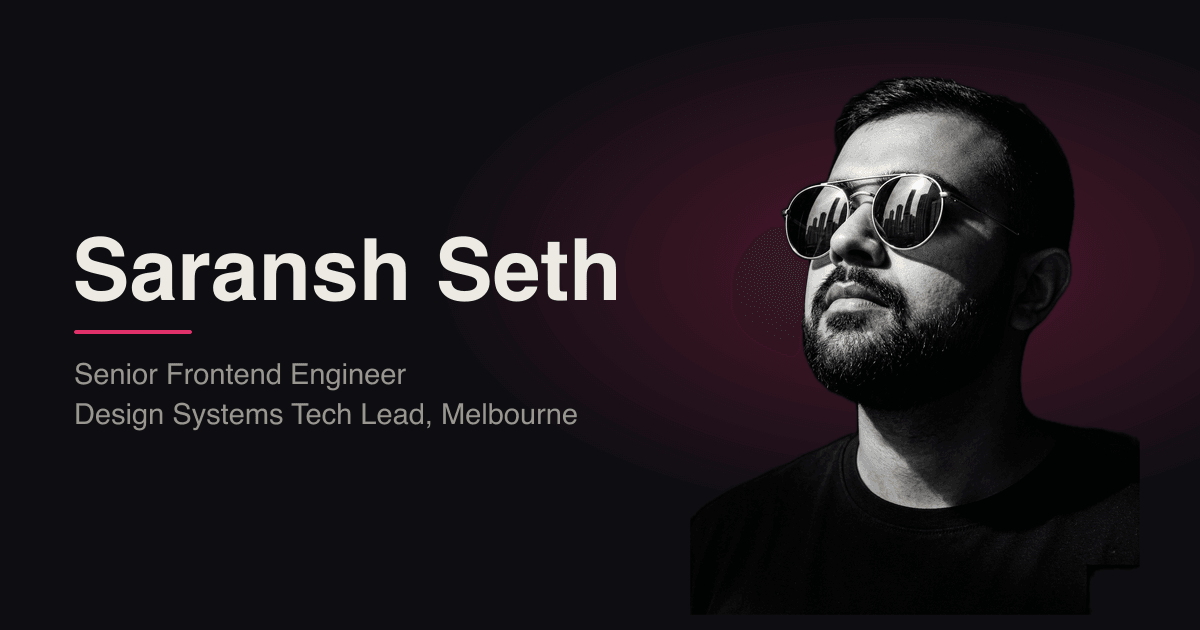
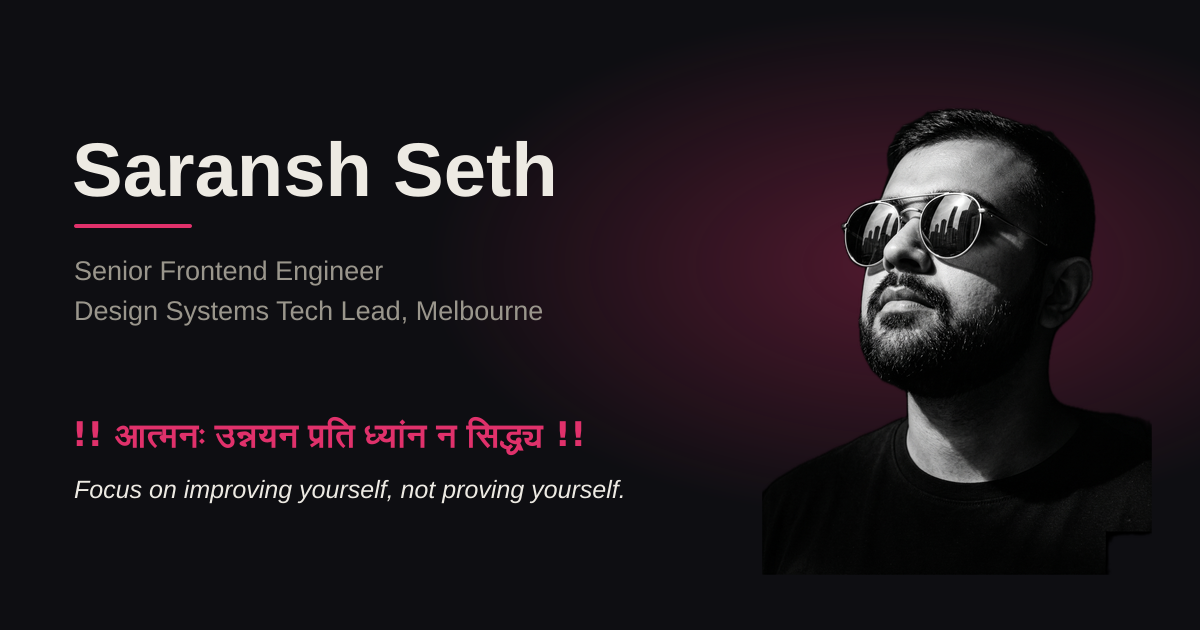
Add Sanskrit motto across the page, OG card, and metadata
Embed the personal motto as a quiet epigraph band between the hero and the
work, and carry it through the Open Graph card and structured data so it
belongs in every theme rather than sitting apart from it.

- New Motto section: Sanskrit main line, English meaning, Hindi echo, all
  coloured from the same theme tokens so the band recolours with each theme.
  Marked up with lang attributes and a scroll reveal that is skipped under
  reduced motion.
- Self-host Noto Serif Devanagari (SIL OFL), instanced to one weight and
  subset to only the motto's glyphs with the shaping tables kept, about 13KB.
  It carries its own unicode-range so it only loads for the Devanagari script.
- OG card now draws the Sanskrit line with that same font embedded as base64,
  plus the English translation, so the card renders identically anywhere with
  no system font dependency.
- Add the motto as slogan in the Person structured data and to the OG image
  alt text.
- Contrast test covers the band's tinted background for accent and muted text
  in all three themes.

Claude-Session: https://claude.ai/code/session_016U8T83akkgvCNnbETXU2jW

diff --git a/src/styles/global.css b/src/styles/global.css
@@ -31,6 +31,15 @@
   font-weight: 200 900;
   font-display: swap;
 }
+/* Subset Noto Serif Devanagari: only the motto's glyphs, so the Sanskrit shapes
+   correctly (conjuncts and all) while the file stays tiny. */
+@font-face {
+  font-family: "Noto Serif Devanagari";
+  src: url("../assets/fonts/noto-serif-devanagari-subset.woff2") format("woff2");
+  font-weight: 400 700;
+  font-display: swap;
+  unicode-range: U+0900-097F, U+0021, U+0028, U+0029;
+}
 
 /* Default theme: Midnight. These generate the semantic utilities. */
 @theme {
@@ -47,6 +56,9 @@
   --font-wordmark: "Unbounded", system-ui, sans-serif;
   --wordmark-size: clamp(3rem, 9vw, 5.5rem);
   --font-body: "Hanken Grotesk", system-ui, sans-serif;
+  /* Script-specific: the Devanagari face for the motto. Constant across themes,
+     recoloured through the same tokens as everything else. */
+  --font-sanskrit: "Noto Serif Devanagari", serif;
 }
 
 /* Pixel: retro phosphor. textMuted is spec value #6E8C5A, which passes AA. Matches tests/themes.ts. */
@@ -358,6 +370,51 @@ body.cursor-hover .cursor-ring { width: 54px; height: 54px; margin: -27px; borde
     transparent 82%
   );
   filter: drop-shadow(0 0 14px var(--shock));
+}
+
+/* ---- Motto band: quiet epigraph between the hero and the work ---- */
+.motto {
+  position: relative;
+  padding: clamp(3.5rem, 9vh, 6rem) 1.5rem;
+  text-align: center;
+  /* A faint plaque, tinted by the theme accent, framed by hairline accent rules top and
+     bottom. Recolours with every theme because it is built entirely from tokens. */
+  background: color-mix(in oklab, var(--color-accent) 5%, transparent);
+  border-block: 1px solid color-mix(in oklab, var(--color-accent) 22%, transparent);
+}
+.motto-inner {
+  max-width: 46rem;
+  margin-inline: auto;
+  display: grid;
+  gap: clamp(0.9rem, 2.4vh, 1.5rem);
+  justify-items: center;
+}
+.motto-sa {
+  font-family: var(--font-sanskrit);
+  font-weight: 600;
+  /* Devanagari needs headroom so the top matras never clip. */
+  line-height: 1.7;
+  font-size: clamp(1.5rem, 4.6vw, 2.75rem);
+  color: var(--color-accent);
+  text-wrap: balance;
+}
+.motto-en {
+  font-family: var(--font-display);
+  font-weight: 500;
+  font-variation-settings: "opsz" 32;
+  font-size: clamp(1.05rem, 2.4vw, 1.6rem);
+  line-height: 1.4;
+  letter-spacing: -0.01em;
+  color: var(--color-text);
+  text-wrap: balance;
+}
+.motto-hi {
+  font-family: var(--font-sanskrit);
+  font-weight: 400;
+  line-height: 1.7;
+  font-size: clamp(0.9rem, 2vw, 1.1rem);
+  color: var(--color-text-muted);
+  text-wrap: balance;
 }
 
 /* ---- Cinematic chapters ---- */

diff --git a/tests/contrast.test.ts b/tests/contrast.test.ts
@@ -13,6 +13,14 @@ function ratio(a: string, b: string): number {
   return (hi + 0.05) / (lo + 0.05);
 }
 
+// The motto band sits on the bg with a faint 5% accent tint. This approximates that mix in
+// sRGB so we can confirm the tint never drops the motto text below AA.
+function tint(bg: string, accent: string, p = 0.05): string {
+  const ch = (h: string, i: number) => parseInt(h.replace("#", "").slice(i, i + 2), 16);
+  const mixed = [0, 2, 4].map((i) => Math.round(ch(bg, i) * (1 - p) + ch(accent, i) * p));
+  return "#" + mixed.map((x) => x.toString(16).padStart(2, "0")).join("");
+}
+
 describe("theme contrast (WCAG AA)", () => {
   for (const [name, t] of Object.entries(THEMES)) {
     it(`${name}: body text on bg passes AA (>=4.5)`, () => {
@@ -26,6 +34,14 @@ describe("theme contrast (WCAG AA)", () => {
     });
     it(`${name}: accent on bg passes large-text AA (>=3.0)`, () => {
       expect(ratio(t.accent, t.bg)).toBeGreaterThanOrEqual(3.0);
+    });
+
+    // Motto band: Sanskrit (large accent), Hindi (muted), English (text), all over the tinted bg.
+    it(`${name}: motto Sanskrit (accent, large) on tinted band passes AA (>=3.0)`, () => {
+      expect(ratio(t.accent, tint(t.bg, t.accent))).toBeGreaterThanOrEqual(3.0);
+    });
+    it(`${name}: motto Hindi (muted) on tinted band passes AA (>=4.5)`, () => {
+      expect(ratio(t.textMuted, tint(t.bg, t.accent))).toBeGreaterThanOrEqual(4.5);
     });
   }
 });

diff --git a/src/scripts/scroll-stage.ts b/src/scripts/scroll-stage.ts
@@ -38,6 +38,18 @@ function initAnchors(lenis: Lenis): void {
   }
 }
 
+// Motto: the three lines rise and fade in as the band comes into view. Quiet, not pinned.
+function initMotto(): void {
+  const inner = document.querySelector<HTMLElement>("[data-motto]");
+  if (!inner) return;
+  const lines = inner.querySelectorAll<HTMLElement>("p");
+  if (!lines.length) return;
+  gsap.from(lines, {
+    y: 34, opacity: 0, filter: "blur(6px)", stagger: 0.12, ease: "power3.out", duration: 0.9,
+    scrollTrigger: { trigger: inner, start: "top 82%" },
+  });
+}
+
 // Approach: a pinned, scrubbed cinematic sequence. The headline words fly up with a
 // touch of rotation, an accent line draws across, then the principles reveal in turn.
 function initApproach(): void {
@@ -222,6 +234,7 @@ export function initScrollStage(): void {
 
   initAnchors(lenis);
   initHeroParallax();
+  initMotto();
   initApproach();
   initExperience();
   initLabReveal();

diff --git a/README.md b/README.md
@@ -137,7 +137,17 @@ The source portrait is a high-contrast black and white headshot.
    1200px with sharp, plus a tiny inline blur-up placeholder. The 1200px image is also the
    shader texture.
 
+`scripts/build-og.mjs` composes the 1200x630 Open Graph card: the cut-out portrait, the name
+and titles, and the motto. The Sanskrit line is drawn with the same subset Devanagari font the
+page uses, embedded in the card's SVG as base64 so the card renders identically anywhere with
+no system font.
+
 The generated images are committed, so a build, including CI, never needs the native tools.
+
+The motto font, `src/assets/fonts/noto-serif-devanagari-subset.woff2`, is Noto Serif Devanagari
+(SIL Open Font License) instanced to one weight and subset to only the glyphs the motto uses,
+with the Devanagari shaping tables kept, so it is about 13KB. It carries its own
+`unicode-range`, so it only ever loads for the motto's script.
 
 ## Deployment
 
